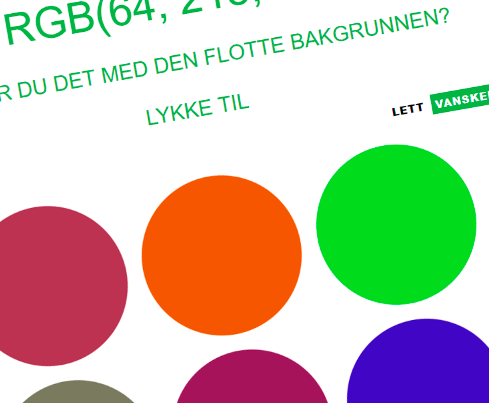
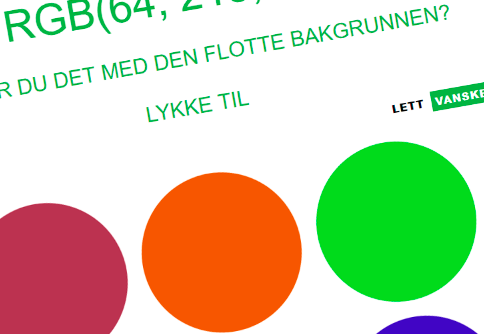
language translates, image changes and cv added

diff --git a/public/stylesheets/style.css b/public/stylesheets/style.css
@@ -33,7 +33,6 @@ ul.nav li a:hover, ul.nav li a:active {
 }
 .canvascontact {
     width: 100%;
-    height: 80vh;
     background: rgb(44, 44, 44);
     position: relative;
     display: flex;   
@@ -159,11 +158,16 @@ ul.nav li a:hover, ul.nav li a:active {
     -ms-transform: translateY(-50%);
     transform: translateY(-50%);
 }
-.copy {
+p.text-center {
     color: #fff;
-    bottom: 0;
-    position: absolute;
-    padding-left: 50%;
+    background-color: rgb(44, 44, 44);
+    margin-top: 20px;
+}
+
+.cv {
+    font-size: 20px;
+    font-weight: bold;
+    margin-top: 20px;
 }
 .btn-primary {
     color: #fff;
@@ -208,3 +212,6 @@ img.grayscale:hover {
     background-color: rgba(0, 0, 0, 0.550) !important;
     transition: background-color 500ms ease;
   }
+.cv-link, a:hover { 
+    color: rgba(207, 202, 202, 0.479) !important;
+}
